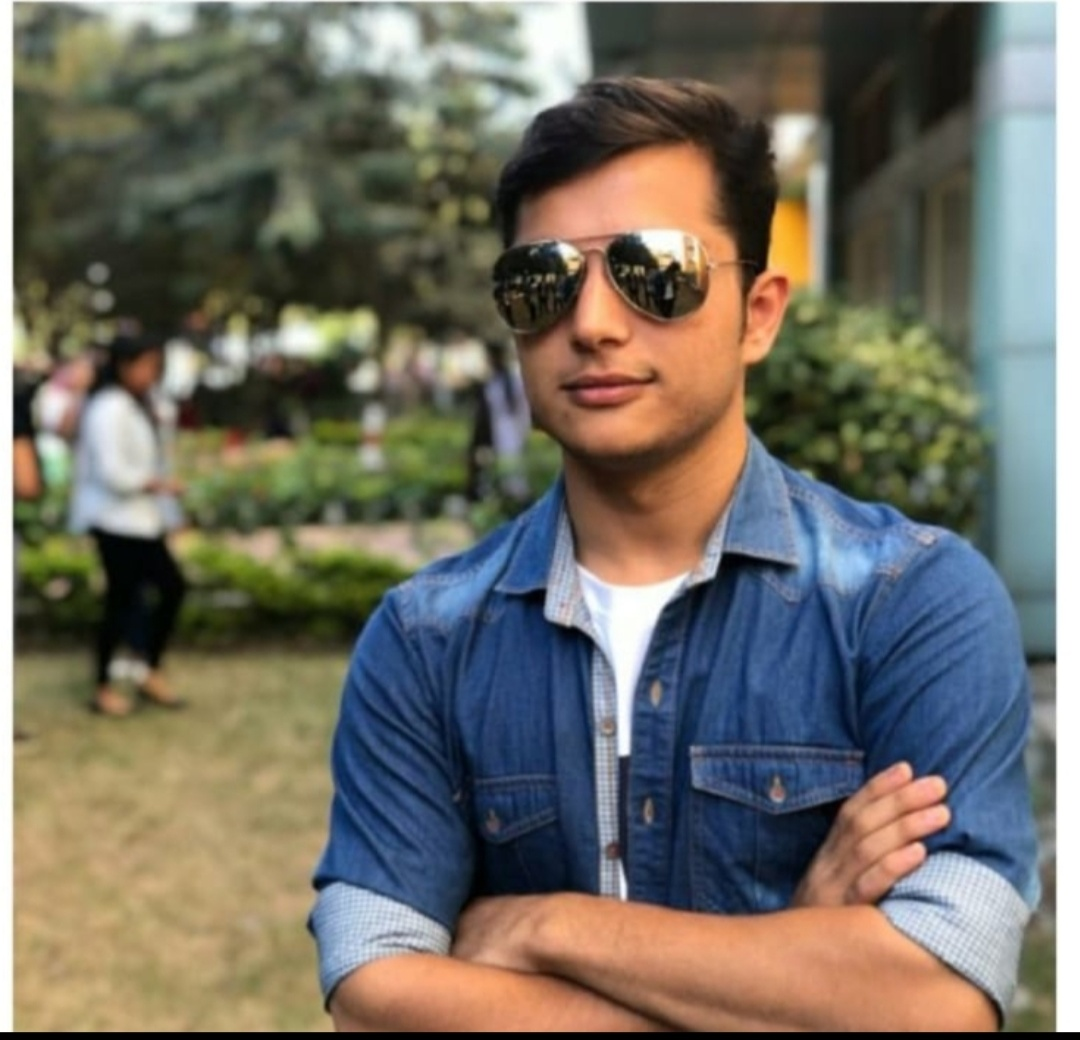
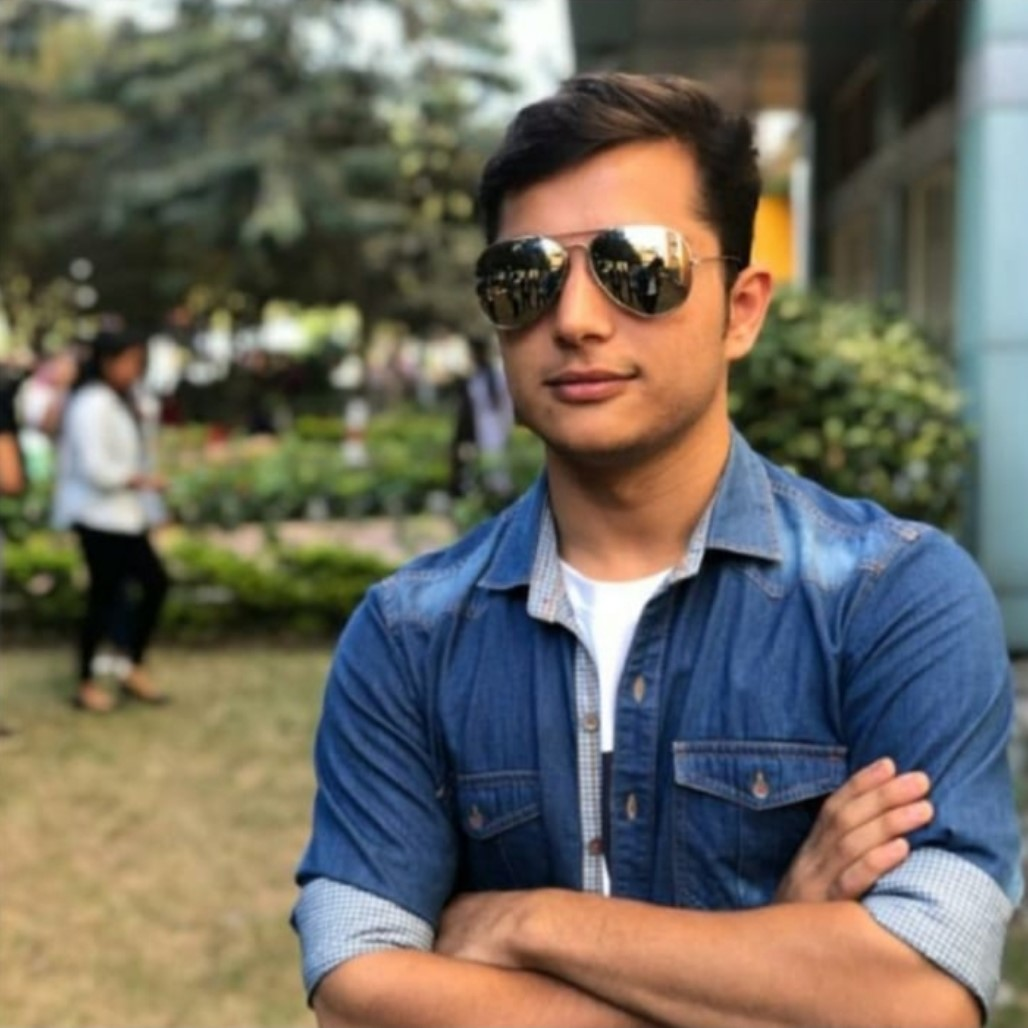
Updated team photos and corrected aspect ratio of all team photos

diff --git a/team.html b/team.html
@@ -329,7 +329,7 @@ s
 
                 <div class="col-lg-3 col-md-6 wow fadeInUp">
                     <div class="member">
-                        <img src="images/CESA20-21/crop-team/mortarboard.png" class="img-fluid" alt="">
+                        <img src="images/CESA20-21/crop-team/Taha.jpg" class="img-fluid" alt="">
                         <div class="member-info">
                             <div class="member-info-content">
                                 <h4>Taha Shahid</h4>
@@ -440,7 +440,7 @@ s
 
                 <div class="col-lg-3 col-md-6 wow fadeInUp">
                     <div class="member">
-                        <img src="images/CESA20-21/crop-team/mortarboard.png" class="img-fluid" alt="">
+                        <img src="images/CESA20-21/crop-team/unnati bhalekar.jpg" class="img-fluid" alt="">
                         <div class="member-info">
                             <div class="member-info-content">
                                 <h4>Unnati Bhalekar</h4>
@@ -455,7 +455,7 @@ s
 
                 <div class="col-lg-3 col-md-6 wow fadeInUp" data-wow-delay="0.1s">
                     <div class="member">
-                        <img src="images/CESA20-21/crop-team/mortarboard.png" class="img-fluid" alt="">
+                        <img src="images/CESA20-21/crop-team/kartik sangaonkar.jpg" class="img-fluid" alt="">
                         <div class="member-info">
                             <div class="member-info-content">
                                 <h4>Kartik Sangaonkar</h4>
@@ -506,7 +506,7 @@ s
 
                 <div class="col-lg-3 col-md-6 wow fadeInUp">
                     <div class="member">
-                        <img src="images/CESA20-21/crop-team/mortarboard.png" class="img-fluid" alt="">
+                        <img src="images/CESA20-21/crop-team/Harshal_Rajput.jpg" class="img-fluid" alt="">
                         <div class="member-info">
                             <div class="member-info-content">
                                 <h4>Harshal Rajput</h4>
@@ -632,13 +632,13 @@ s
 
             <div class="row">
 
-                <div class="col-lg-3 col-md-0 wow fadeInUp">
+                <!-- <div class="col-lg-3 col-md-0 wow fadeInUp">
 
-                </div>
+                </div> -->
 
                 <div class="col-lg-3 col-md-6 wow fadeInUp" data-wow-delay="0.1s">
                     <div class="member">
-                        <img src="images/CESA20-21/crop-team/mortarboard.png" class="img-fluid" alt="">
+                        <img src="images/CESA20-21/crop-team/Sujeet.jpeg" class="img-fluid" alt="">
                         <div class="member-info">
                             <div class="member-info-content">
                                 <h4>Sujit Jawale</h4>
@@ -653,7 +653,7 @@ s
 
                 <div class="col-lg-3 col-md-6 wow fadeInUp" data-wow-delay="0.2s">
                     <div class="member">
-                        <img src="images/CESA20-21/crop-team/mortarboard.png" class="img-fluid" alt="">
+                        <img src="images/CESA20-21/crop-team/nachiketMahamuni.png" class="img-fluid" alt="">
                         <div class="member-info">
                             <div class="member-info-content">
                                 <h4>Nachiket Mahamuni</h4>
@@ -665,6 +665,37 @@ s
                         </div>
                     </div>
                 </div>
+
+                <div class="col-lg-3 col-md-6 wow fadeInUp" data-wow-delay="0.2s">
+                    <div class="member">
+                        <img src="images/CESA20-21/crop-team/Vinit Hande.jpg" class="img-fluid" alt="">
+                        <div class="member-info">
+                            <div class="member-info-content">
+                                <h4>Vinit Hande</h4>
+                                <span>Coding Cell</span>
+                                <div class="social">
+                                    <a href="mailto:"><i class="fa fa-envelope"></i></a>
+                                </div>
+                            </div>
+                        </div>
+                    </div>
+                </div>
+
+                <div class="col-lg-3 col-md-6 wow fadeInUp" data-wow-delay="0.2s">
+                    <div class="member">
+                        <img src="images/CESA20-21/crop-team/Yash Morankar.jpg" class="img-fluid" alt="">
+                        <div class="member-info">
+                            <div class="member-info-content">
+                                <h4>Yash Morankar</h4>
+                                <span>Coding Cell</span>
+                                <div class="social">
+                                    <a href="mailto:"><i class="fa fa-envelope"></i></a>
+                                </div>
+                            </div>
+                        </div>
+                    </div>
+                </div>
+
 
             </div>
 
